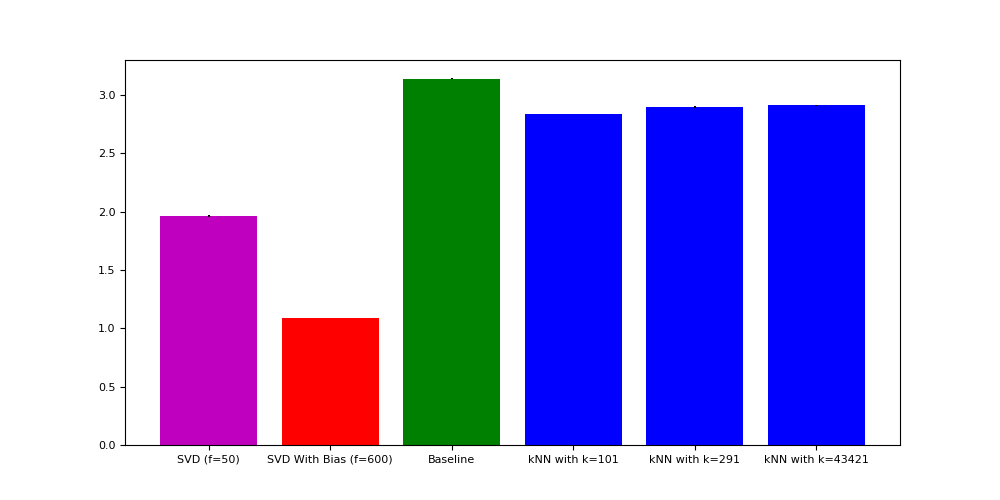
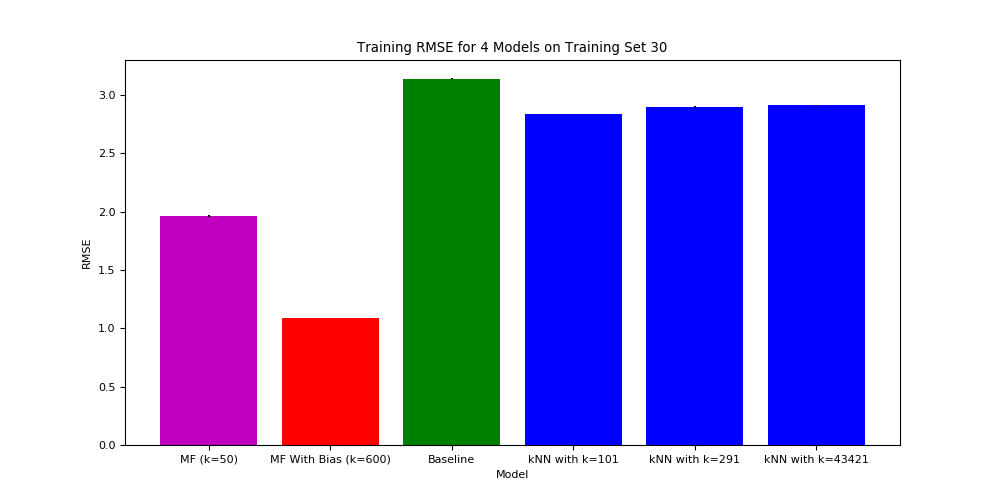
new graph

diff --git a/source/latent.py b/source/latent.py
@@ -92,7 +92,7 @@ def get_results(setNum, reg_term):
     train_res = [np.mean(cv_svd['train_rmse']), np.mean(cv_svd_bias['train_rmse']),np.mean(cv_baseline['train_rmse'])]
     val_err = [np.std(cv_svd['test_rmse']), np.std(cv_svd_bias['test_rmse']),np.std(cv_baseline['test_rmse'])]
     train_err = [np.std(cv_svd['train_rmse']), np.std(cv_svd_bias['train_rmse']),np.std(cv_baseline['train_rmse'])]
-    algs = ['SVD (f='+str(num_factors)+')', 'SVD With Bias (f='+str(num_factors_b)+')', 'Baseline']
+    algs = ['MF (k='+str(num_factors)+')', 'MF With Bias (k='+str(num_factors_b)+')', 'Baseline']
 
     return val_res,train_res,val_err,train_err,algs
 
@@ -150,7 +150,7 @@ def plot_from_results(val_res,train_res,val_err,train_err,algs, setNum):
     plt.figure(figsize=(10, 5))
     plt.rcParams.update({'font.size': 8})
     plt.bar(algs, val_res, yerr=val_err, color=['m', 'r', 'g', 'b','b','b'])
-    plt.title('Validation RMSE for 3 Models on Training Set '+str(setNum))
+    plt.title('Validation RMSE for 4 Models on Training Set '+str(setNum))
     plt.xlabel('Model')
     plt.ylabel('RMSE')
     plt.savefig('/Users/annascomputer/Documents/GitHub/ML-Final-Project/results/ValidationBarChart'+str(setNum))
@@ -160,10 +160,10 @@ def plot_from_results(val_res,train_res,val_err,train_err,algs, setNum):
     plt.figure(figsize=(10, 5))
     plt.bar(algs, train_res, yerr=train_err, color=['m', 'r', 'g', 'b','b','b'])
     plt.rcParams.update({'font.size': 8})
-    plt.savefig('/Users/annascomputer/Documents/GitHub/ML-Final-Project/results/TrainingBarChart'+str(setNum))
-    plt.title('Training RMSE for 3 Models on Training Set '+str(setNum))
+    plt.title('Training RMSE for 4 Models on Training Set '+str(setNum))
     plt.xlabel('Model')
     plt.ylabel('RMSE')
+    plt.savefig('/Users/annascomputer/Documents/GitHub/ML-Final-Project/results/TrainingBarChart'+str(setNum))
     plt.show()
 
     # Save data from these charts
@@ -193,7 +193,7 @@ def plot_factors(n_factors, train_errors, val_errors):
     plt.figure(1)
     plt.plot(n_factors,train_errors, 'r--', label='Training Error')
     plt.plot(n_factors, val_errors, 'b--', label='Validation Error')
-    pylab.legend(loc='upper right')
+    pylab.legend(loc='center right')
     plt.savefig("/Users/annascomputer/Documents/GitHub/ML-Final-Project/results/ErrorIncreadingFactors.png")
 
 def grid_search(setNum):
@@ -230,12 +230,12 @@ def main():
     ## Calling grid search, we have run and gotten plots for the following ranges
     ## FACTOR RANGE 1: [2,3,5,7,10,15,25,50,100,150,200,250,300,350,400]
     ## FACTOR RANGE 2: [100,200,300,400,500,600,700]
-    n_factors = [100,200,300,400,500,600,700]
-    # train_errors, val_errors = vary_factors(15, n_factors)
-    # Note: If you don't want to run above (costly) the results are below for Frange2
-    # train_errors = [0.8161, 0.5196, 0.3847, 0.3041, 0.2519, 0.2154, 0.1891]
-    # val_errors = [3.4995, 3.4517, 3.4271, 3.4170,  3.4123, 3.4110, 3.4113]
-    
+    n_factors = [2,3,5,7,10,15,25,50,100,150,200,250,300,350]
+    # train_errors, val_errors = vary_factors(setNum, n_factors)
+    # Note: If you don't want to run above (costly) the results are below from past computations
+    n_factors = [2,3,5,7,10,15,25,50,100,150,200,250,300,350,400,500,600,700]
+    train_errors = [2.9342, 2.8432, 2.6894 , 2.5371, 2.3407, 2.0720, 1.6850, 1.1723, 0.7564, 0.5708,  0.4635, 0.3923, 0.3407,  0.3013, 0.3041, 0.2519, 0.2154, 0.1891]
+    val_errors = [3.3380 , 3.3643, 3.4140, 3.4539, 3.4820, 3.5111, 3.5212, 3.4901, 3.4158, 3.3927, 3.3735, 3.3607, 3.3511, 3.3383, 3.4170,  3.4123, 3.4110, 3.4113]
     
     # plot_factors(n_factors, train_errors, val_errors)
     #--------------------------------------------------#
